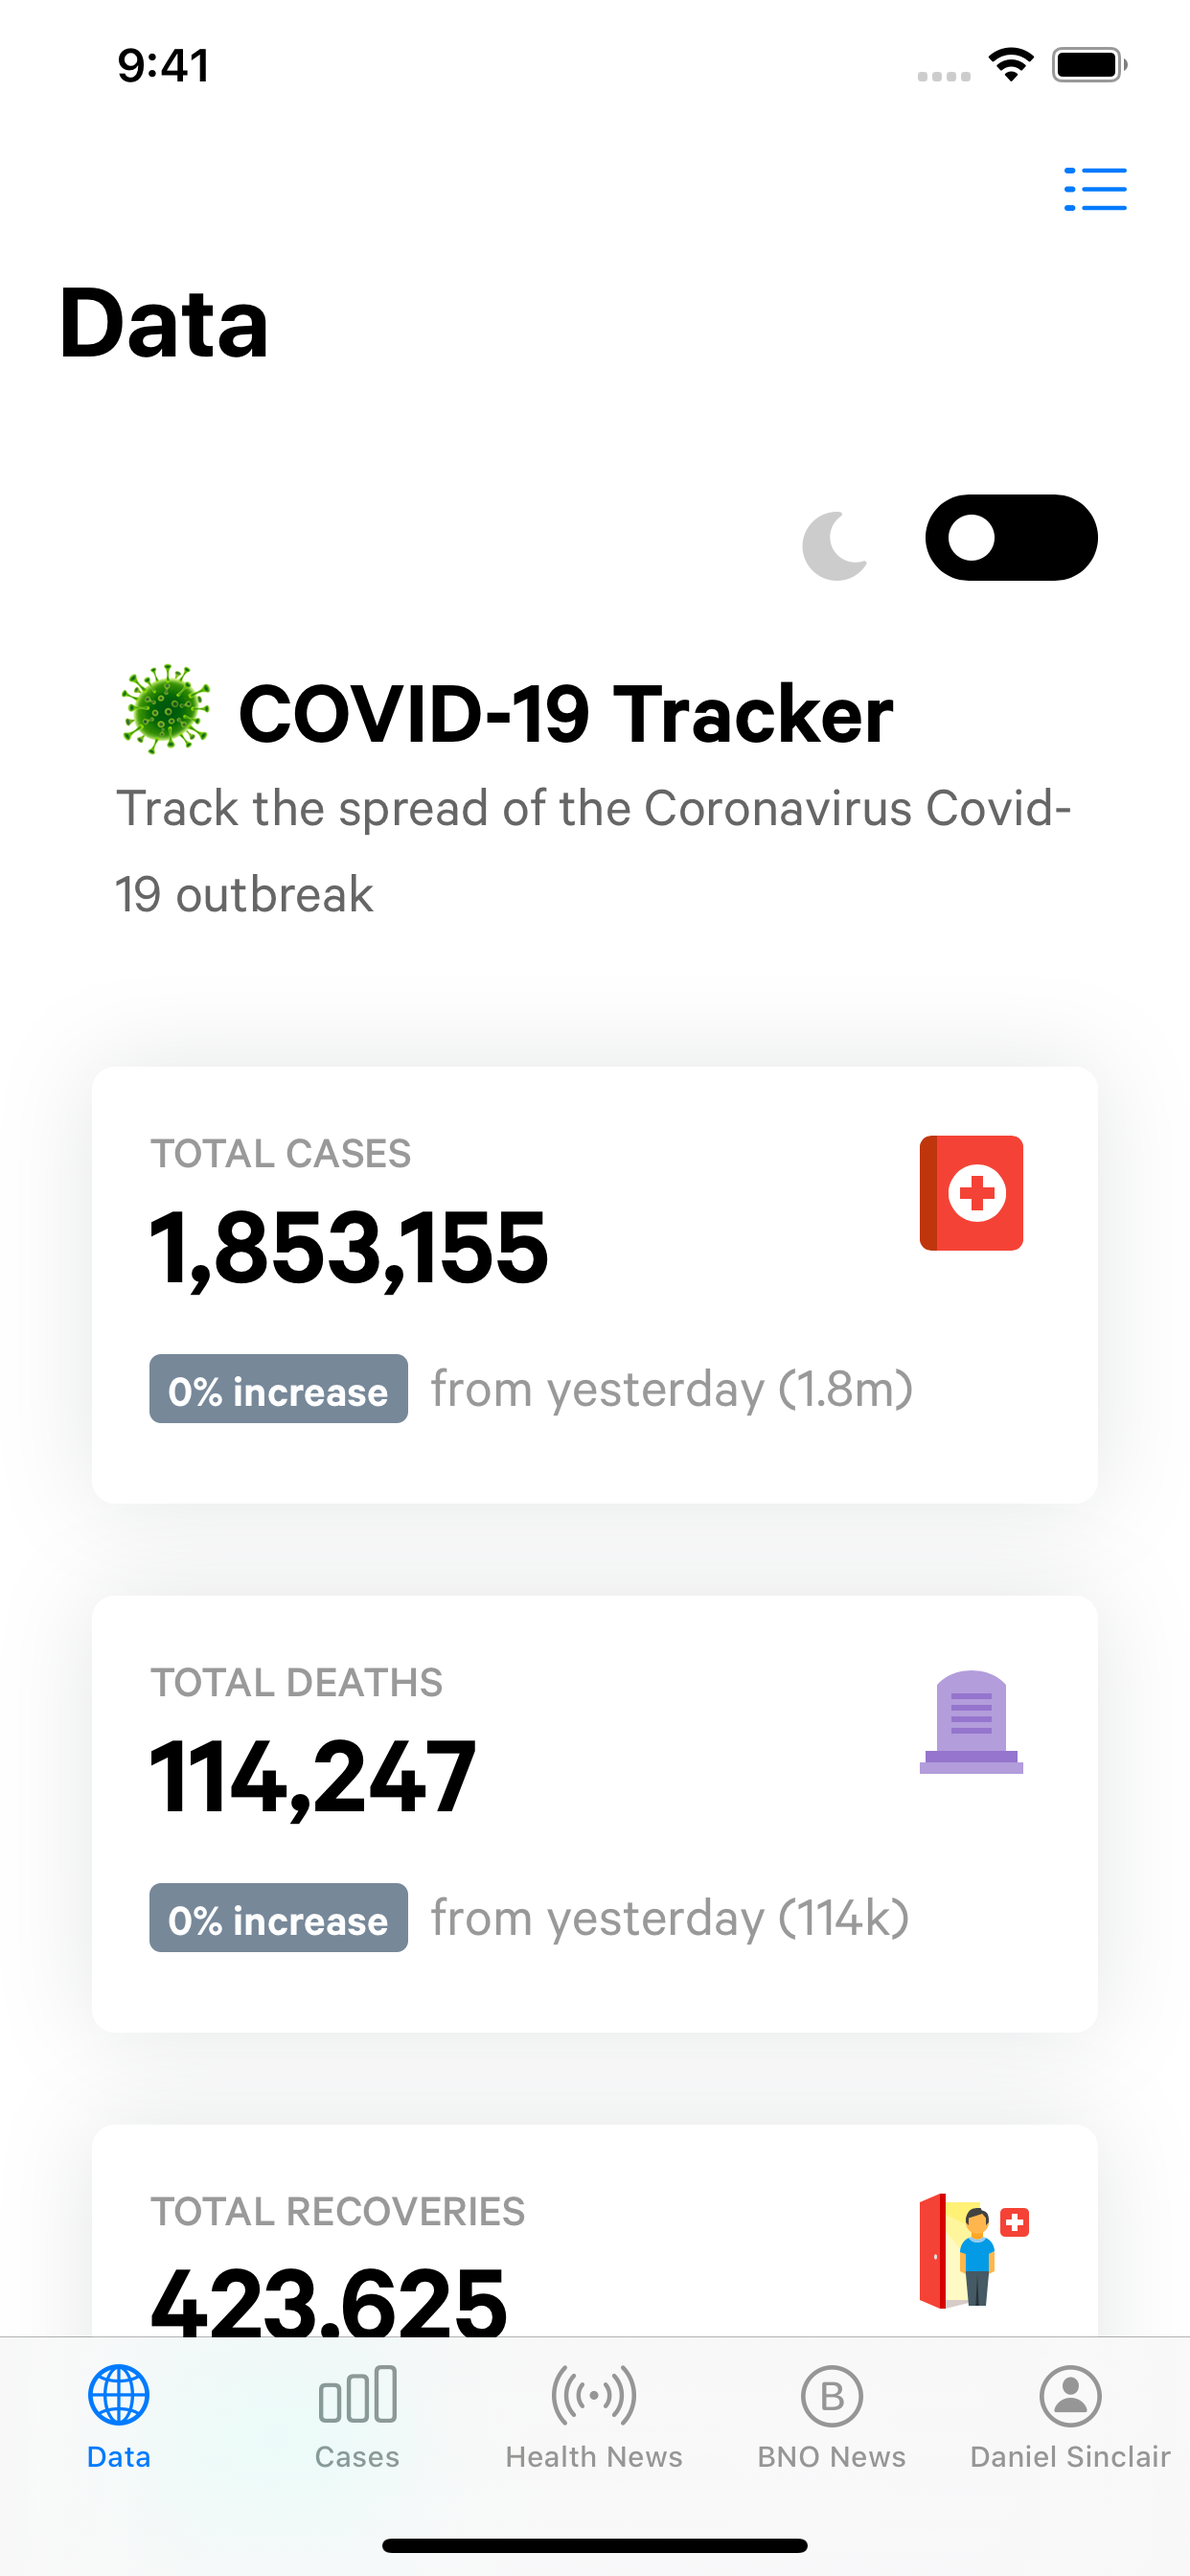
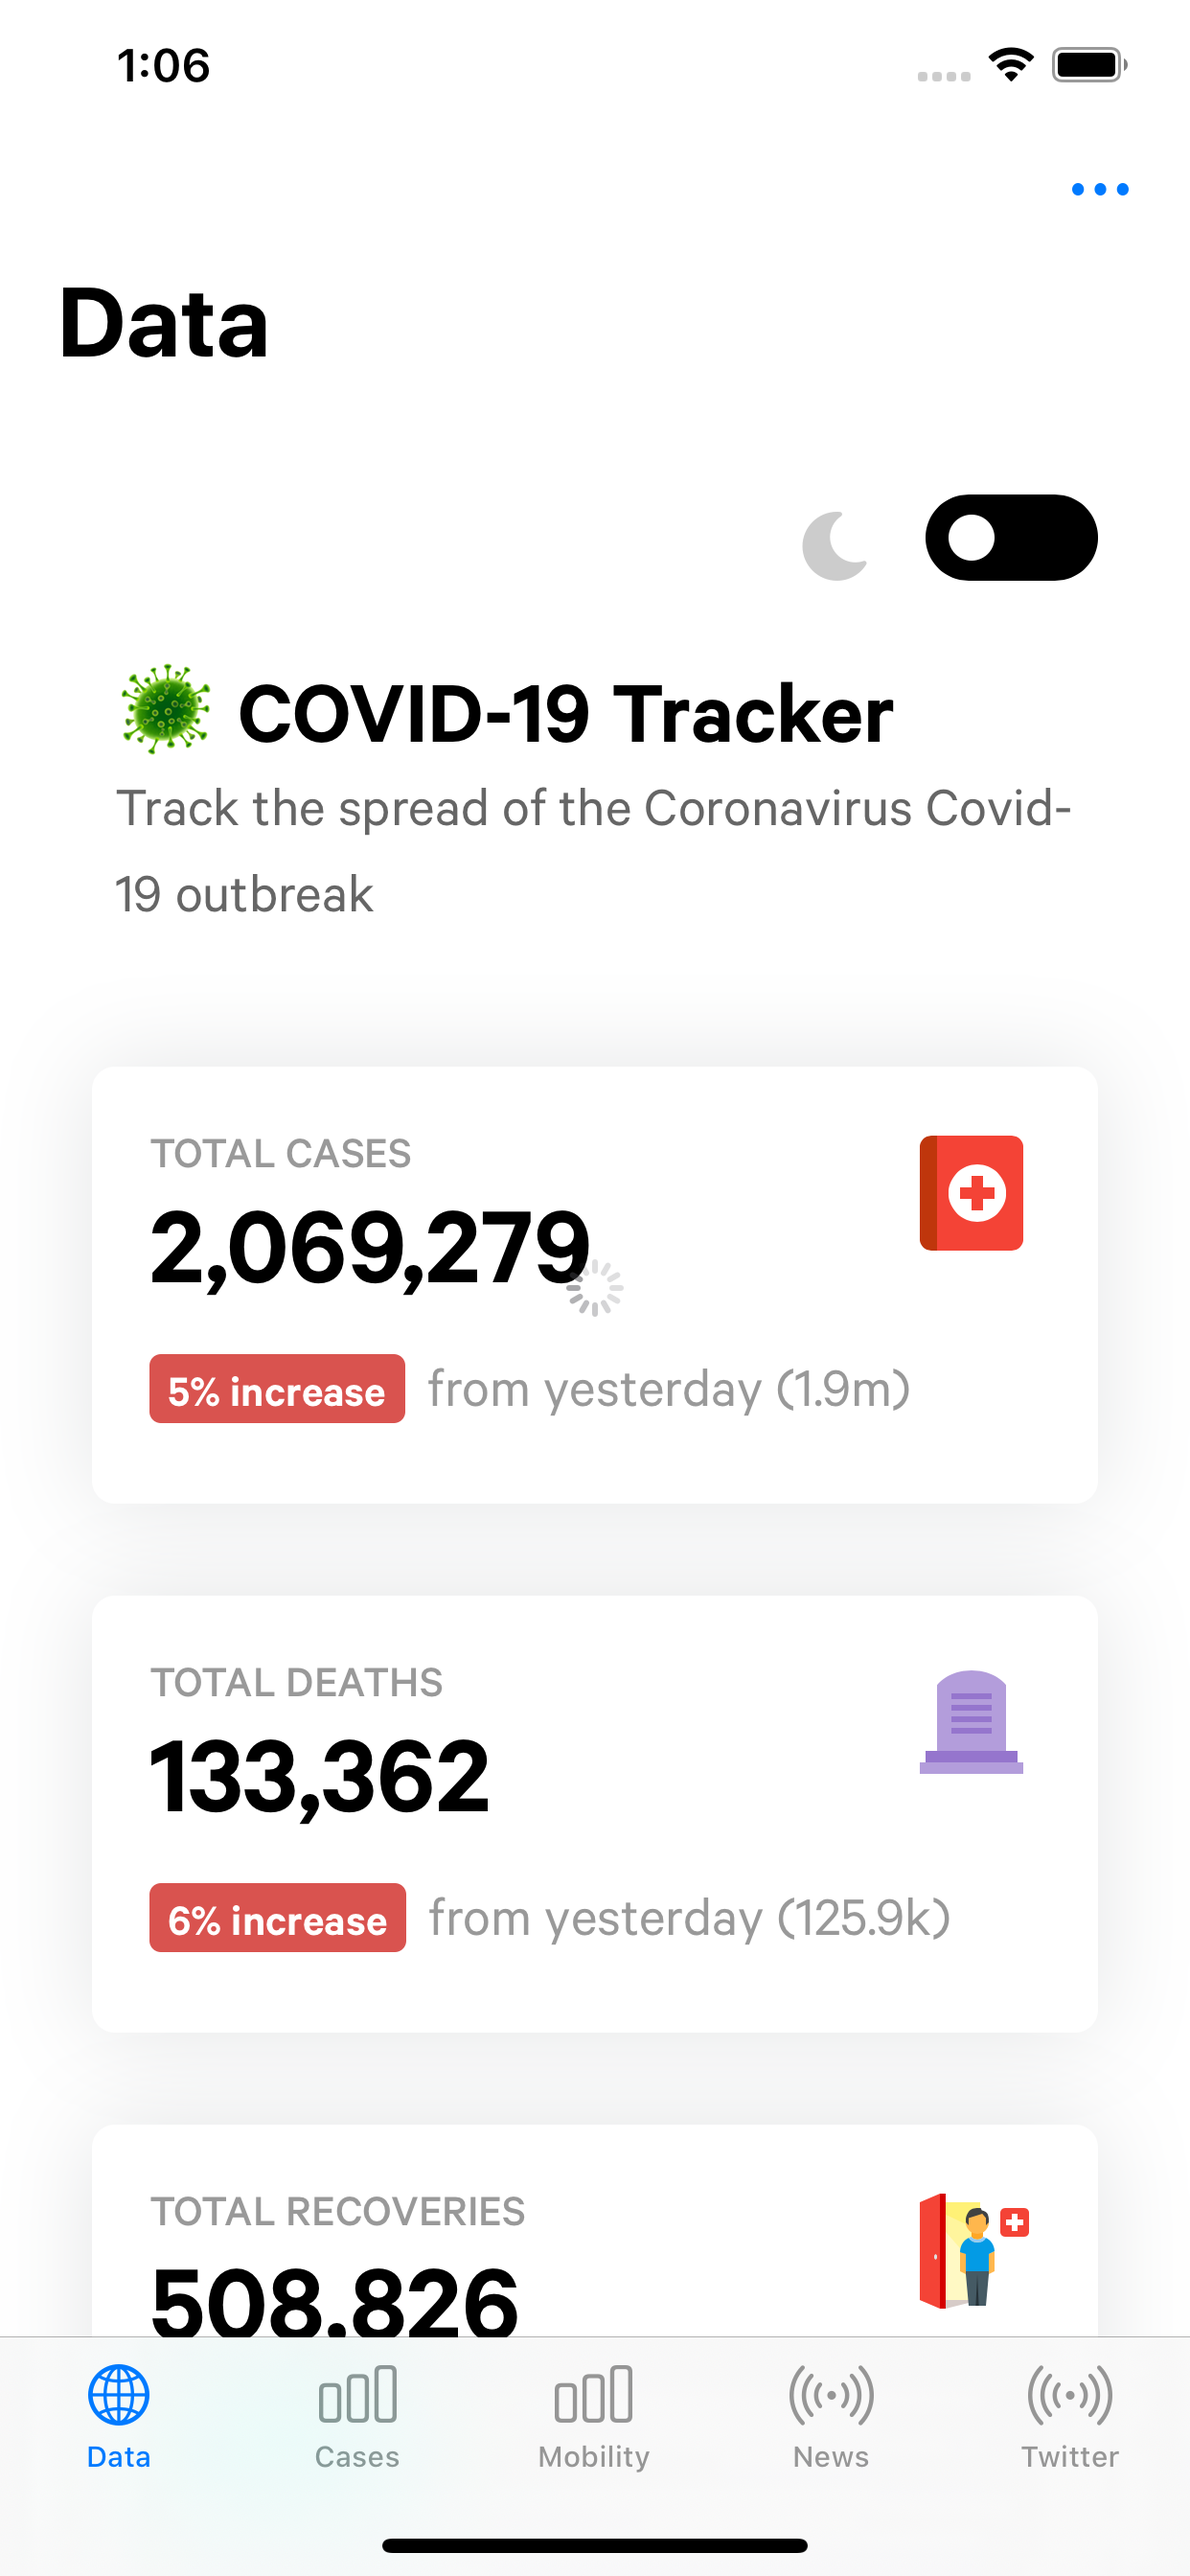
consolidate tweets, add google and mobility trends

diff --git a/Xcode/covid19/TweetsViewController.swift b/Xcode/covid19/TweetsViewController.swift
@@ -16,44 +16,39 @@ class TweetsViewController: UIViewController {
     private let refreshControl = UIRefreshControl()
     
     // Data
-    var user = ""
+    var users: [String] = []
     var webContent = ""
-    
+
     required init?(coder: NSCoder) {
         fatalError("init(coder:) has not been implemented")
     }
-    
-    override init(nibName nibNameOrNil: String?, bundle nibBundleOrNil: Bundle?) {
-        super.init(nibName: nibNameOrNil, bundle: nibBundleOrNil)
-    }
-    
-    init(tab: Tab) {
+
+    init(tab: Tab, usernames: [String]) {
         super.init(nibName: nil, bundle:nil)
-        
-        setup(tab)
+
+        users = usernames
+        setup(tab: tab, user: usernames.first)
         configure()
-        refreshWebView(refreshControl)
+        refreshWebView(user: usernames.first)
     }
 }
 
 private extension TweetsViewController {
-    func setup(_ tab: Tab) {
+    func contentForUser(_ user: String?) -> String {
+        guard let user = user else { return "" }
+
+        return """
+        <meta name='viewport' content='initial-scale=1.0'/>
+        <a class="twitter-timeline" href="https://twitter.com/\(user)"></a>
+        <script async src="https://platform.twitter.com/widgets.js" charset="utf-8"></script>
+        """
+    }
+
+    func setup(tab: Tab, user: String?) {
         view.backgroundColor = .white
         
         title = tab.name
-        
-        guard let tuser = tab.twitterUser else {
-            return
-        }
-        
-        user = tuser
-        
-        webContent = """
-        <meta name='viewport' content='initial-scale=1.0'/>
-        <a class="twitter-timeline" href="https://twitter.com/\(tuser)"></a>
-        <script async src="https://platform.twitter.com/widgets.js" charset="utf-8"></script>
-        """
-        
+
         webView.navigationDelegate = self
     }
     
@@ -72,11 +67,39 @@ private extension TweetsViewController {
         refreshControl.addTarget(self, action: #selector(refreshWebView(_:)), for: UIControl.Event.valueChanged)
         webView.scrollView.addSubview(refreshControl)
         webView.scrollView.bounces = true
+
+        // Select website button
+        let image = UIImage(systemName: "ellipsis")
+        let button = UIBarButtonItem(image: image, style: .plain, target: self, action: #selector(selectTweetUser))
+        navigationItem.rightBarButtonItem = button
+    }
+
+    func refreshWebView(user: String?) {
+        webContent = contentForUser(user)
+        webView.loadHTMLString(webContent, baseURL: nil)
     }
     
     @objc func refreshWebView(_ sender: UIRefreshControl) {
         webView.loadHTMLString(webContent, baseURL: nil)
         sender.endRefreshing()
+    }
+
+    @objc func selectTweetUser() {
+        let alertController = UIAlertController(title: nil, message: nil, preferredStyle: .actionSheet)
+
+        for user in users {
+            let action = UIAlertAction(title: user, style: .default, handler: handleUserSelection)
+            alertController.addAction(action)
+        }
+
+        alertController.addAction(UIAlertAction(title: "Cancel", style: .cancel))
+
+        self.present(alertController, animated: true, completion: nil)
+    }
+
+    func handleUserSelection(_ action: UIAlertAction) {
+        guard let user = action.title else { return }
+        refreshWebView(user: user)
     }
 }
 

diff --git a/Xcode/covid19/SceneDelegate.swift b/Xcode/covid19/SceneDelegate.swift
@@ -24,11 +24,25 @@ class SceneDelegate: UIResponder, UIWindowSceneDelegate {
         window = UIWindow(frame: windowScene.coordinateSpace.bounds)
         window?.windowScene = windowScene
 
-        let webController = WebViewController()
+        let websites = [
+            Website(domain: "viruscovid.tech", urlString: "https://viruscovid.tech"),
+            Website(domain: "ncov2019.live", urlString: "https://ncov2019.live"),
+            Website(domain: "google.com", urlString: "https://www.google.com/search?q=covid+cases")
+        ]
+        let webController = WebViewController(websites)
         webController.tabBarItem.image = UIImage(systemName: Constant.web.imageSystemName)
         webController.tabBarItem.title = Constant.web.name
         let webNavigationController = UINavigationController(rootViewController: webController)
         webNavigationController.navigationBar.prefersLargeTitles = true
+
+        let trendsWebsites = [
+            Website(domain: "Mobility Trends: Apple", urlString: "https://www.apple.com/covid19/mobility"),            
+        ]
+        let trendsController = WebViewController(trendsWebsites)
+        trendsController.tabBarItem.image = UIImage(systemName: Constant.trends.imageSystemName)
+        trendsController.tabBarItem.title = Constant.trends.name
+        let trendsNavigationController = UINavigationController(rootViewController: trendsController)
+        trendsNavigationController.navigationBar.prefersLargeTitles = true
 
         let dataController = DataViewController()
         dataController.tabBarItem.image = UIImage(systemName: Constant.data.imageSystemName)
@@ -41,19 +55,18 @@ class SceneDelegate: UIResponder, UIWindowSceneDelegate {
         let newsNavigationController = UINavigationController(rootViewController: newsController)
         newsNavigationController.navigationBar.prefersLargeTitles = true
 
-        let bnoDeskTweetsController = TweetsViewController(tab: Constant.bno)
-        bnoDeskTweetsController.tabBarItem.image = UIImage(systemName: Constant.bno.imageSystemName)
-
-        let tweetsController = TweetsViewController(tab: Constant.twitter)
-        tweetsController.tabBarItem.image = UIImage(systemName: Constant.twitter.imageSystemName)
+        let users = ["BNODesk", "_DanielSinclair"]
+        let tweetsController = TweetsViewController(tab: Constant.twitter, usernames: users)
+        let tweetsNavigationController = UINavigationController.init(rootViewController: tweetsController)
+        tweetsController.tabBarItem.image = UIImage(systemName: "dot.radiowaves.left.and.right")
 
         let tabController = UITabBarController()
         tabController.viewControllers = [
             webNavigationController,
             dataNavigationController,
+            trendsNavigationController,
             newsNavigationController,
-            bnoDeskTweetsController,
-            tweetsController
+            tweetsNavigationController,
         ]
 
         window?.rootViewController = tabController

diff --git a/Xcode/covid19/WebViewController.swift b/Xcode/covid19/WebViewController.swift
@@ -15,19 +15,22 @@ class WebViewController: UIViewController {
     private var spinner = UIActivityIndicatorView(style: .medium)
     
     // Data
-    private var websites = [
-        Website(domain: "viruscovid.tech", urlString: "https://viruscovid.tech"),
-        Website(domain: "ncov2019.live", urlString: "https://ncov2019.live")
-    ]
-    
-    override func viewDidLoad() {
-        super.viewDidLoad()
-        
+    var websites: [Website] = []
+
+    init(_ sites: [Website]) {
+        super.init(nibName: nil, bundle:nil)
+
+        websites = sites
+
         setup()
         configure()
         loadData()
     }
-    
+
+    required init?(coder: NSCoder) {
+        fatalError("init(coder:) has not been implemented")
+    }
+
     override func observeValue(forKeyPath keyPath: String?, of object: Any?, change: [NSKeyValueChangeKey : Any]?, context: UnsafeMutableRawPointer?) {
         if keyPath == "estimatedProgress" {
             if webview.estimatedProgress == 1 {
@@ -76,10 +79,12 @@ private extension WebViewController {
         // Web view
         view = webview
         
-        // Filter button
-        let image = UIImage(systemName: "list.dash")
-        let button = UIBarButtonItem(image: image, style: .plain, target: self, action: #selector(filter))
-        navigationItem.rightBarButtonItem = button
+        // Select website button
+        let image = UIImage(systemName: "ellipsis")
+        let button = UIBarButtonItem(image: image, style: .plain, target: self, action: #selector(selectWebsite))
+        if websites.count > 1 {
+            navigationItem.rightBarButtonItem = button
+        }
         
         // Spinner
         spinner.translatesAutoresizingMaskIntoConstraints = false
@@ -89,7 +94,7 @@ private extension WebViewController {
         spinner.centerYAnchor.constraint(equalTo: view.centerYAnchor).isActive = true
     }
     
-    @objc func filter() {
+    @objc func selectWebsite() {
         let alertController = UIAlertController(title: nil, message: nil, preferredStyle: .actionSheet)
         
         for w in websites {
@@ -114,9 +119,4 @@ private extension WebViewController {
             loadWebsite(w)
         }
     }
-}
-
-private struct Website {
-    var domain: String
-    var urlString: String
 }

diff --git a/Xcode/covid19/Constant.swift b/Xcode/covid19/Constant.swift
@@ -11,13 +11,17 @@ import Foundation
 struct Constant {
     static let web = Tab(name: "Data", imageSystemName: "globe")
     static let data = Tab(name: "Cases", imageSystemName: "chart.bar")
-    static let news = Tab(name: "Health News", imageSystemName: "dot.radiowaves.left.and.right")
-    static let bno = Tab(name: "BNO News", imageSystemName: "b.circle", twitterUser: "BNODesk")
-    static let twitter = Tab(name: "Daniel Sinclair", imageSystemName: "person.circle", twitterUser: "_DanielSinclair")
+    static let trends = Tab(name: "Mobility", imageSystemName: "chart.bar")
+    static let news = Tab(name: "News", imageSystemName: "dot.radiowaves.left.and.right")
+    static let twitter = Tab(name: "Twitter", imageSystemName: "dot.radiowaves.left.and.right")
 }
 
 struct Tab {
     var name: String
     var imageSystemName: String
-    var twitterUser: String?
+}
+
+struct Website {
+    var domain: String
+    var urlString: String
 }

diff --git a/README.md b/README.md
@@ -4,7 +4,7 @@ Small iOS app to show some COVID-19 health, data, news and tweets :zap:
 
 <img src=Images/0.png height=400> <img src=Images/1.png height=400> <img src=Images/2.png height=400>
 
-<img src=Images/3.png height=400> <img src=Images/4.png height=400> <img src=Images/5.png height=400>
+<img src=Images/3.png height=400> <img src=Images/4.png height=400> 
 
 ## Requirements
 
@@ -18,6 +18,8 @@ iOS 13 for [Collection View Compositional Layouts](https://developer.apple.com/d
 - [Tweets: Daniel Sinclair](https://twitter.com/_DanielSinclair)
 - [Web: viruscovid.tech](https://viruscovid.tech)
 - [Web: ncov2019.live](https://ncov2019.live)
+- [Web: google.com](https://www.google.com/search?q=covid+cases)
+- [Mobility Trends: Apple](https://www.apple.com/covid19/mobility)
 
 ## Contact
 
